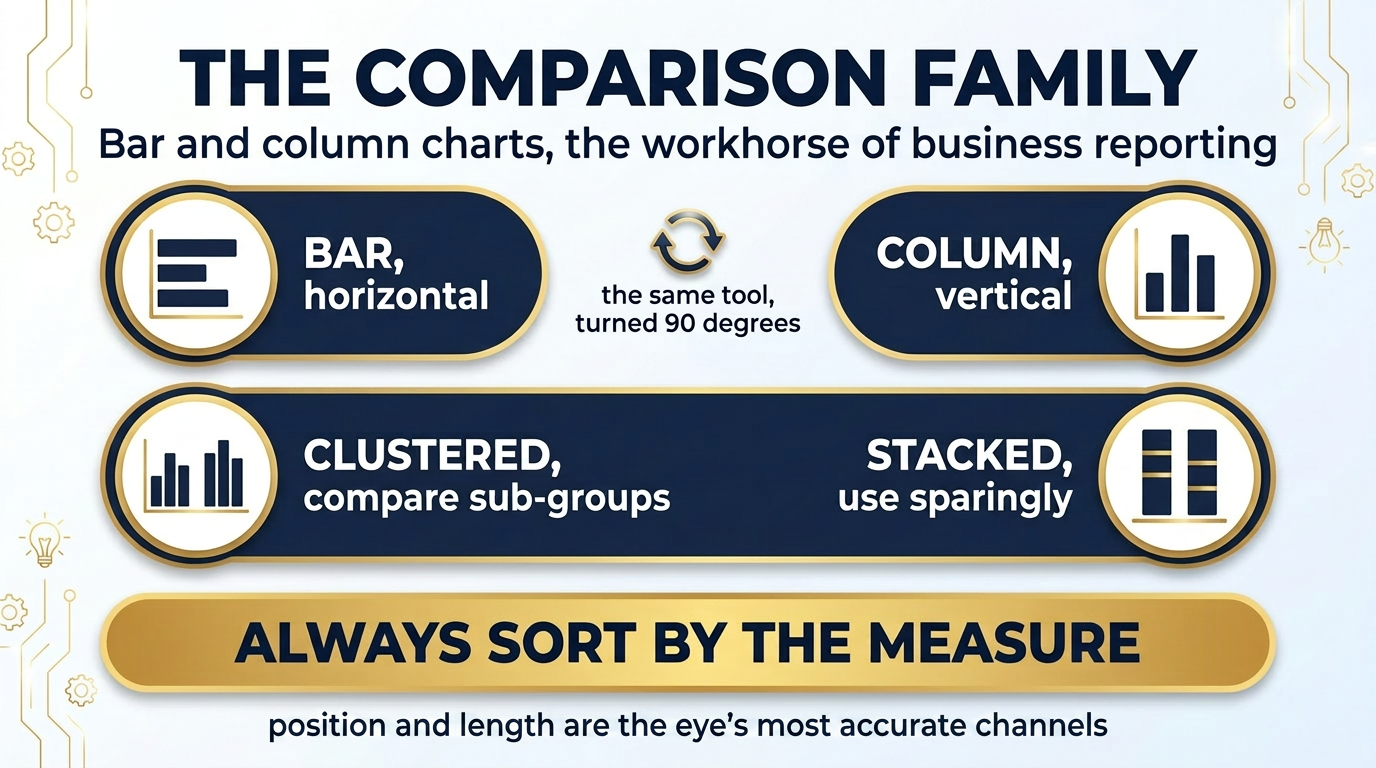
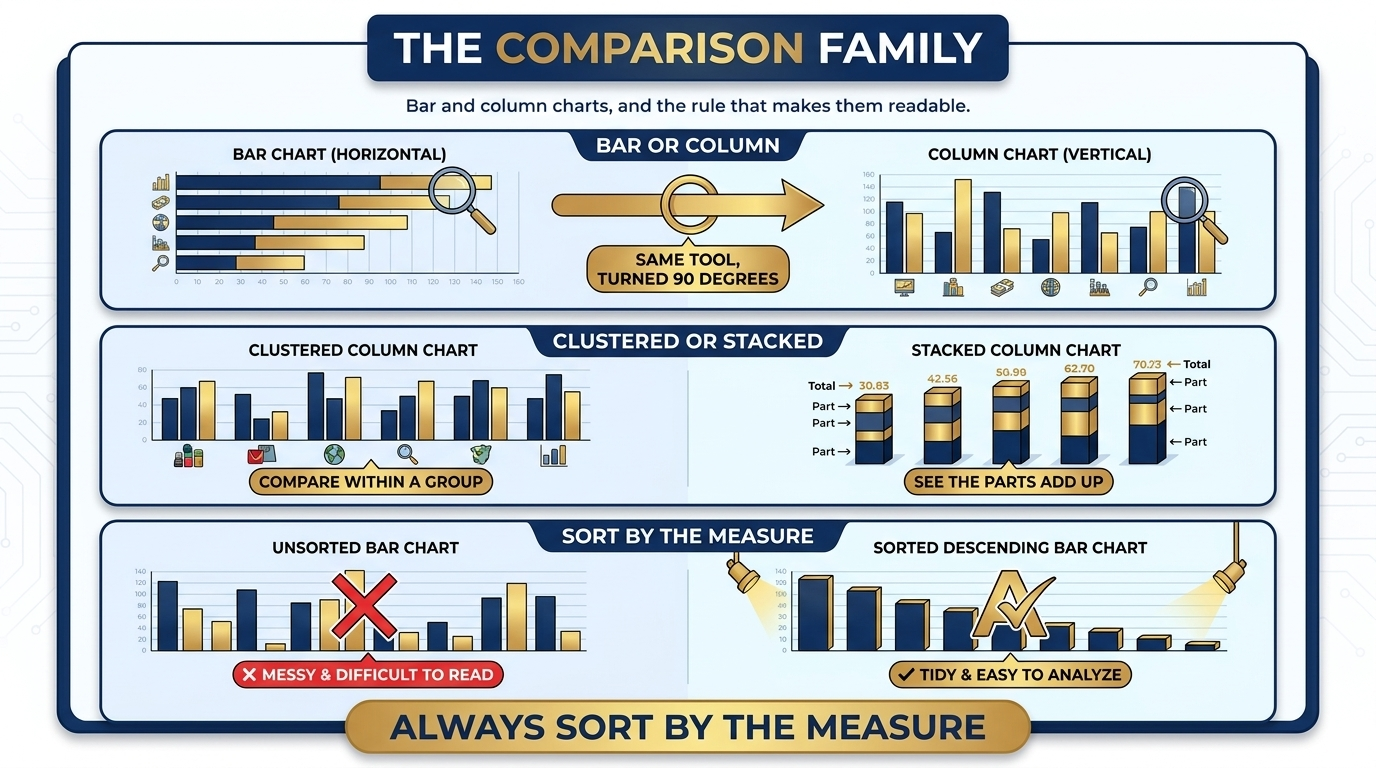
Restyle Chapter 2-3 inner figures as ai4educators-style master infographics
Rebuild the inner figures of Chapters 2 and 3 in the dense, richly
illustrated master-infographic style: each figure now depicts its
concept with drawn charts, annotations, and reaction faces rather than
labelling it in sparse shapes.

- Ch2: comparison family (row diagram), pie chart breaks (3-panel
  good/bad/fix), dashboard rebuild (before/after).
- Ch3: same data two reactions (Y-split), custom-visual checklist,
  board-ready Friday (timeline).
- Each chapter's four figures use four distinct compositions.
- Figure HTML-comment prompt blocks and alt text updated to match.
- Both chapters build clean with no MyST warnings.

diff --git a/chapters/ch03-formatting-conditional-custom-visuals.md b/chapters/ch03-formatting-conditional-custom-visuals.md
@@ -95,16 +95,17 @@ Microsoft Learn calls this *report formatting*. In practice, it is the differenc
 NANO BANANA PRO — CHAPTER 3 FIGURE 2 (concept infographic)
 File: images/ch03/fig-3-2-two-reactions.png
 Title: Same Data, Two Reactions
-Concept: Formatting is a second argument — the same report, default vs branded, draws two different audience reactions.
-Archetype: Before/after — two panels, central "FORMATTING" arrow.
-Reference: this figure is itself a locked style anchor in images/_style-reference/.
-Labels: panel headers "DEFAULT" / "BRANDED"; callouts "A 3-SECOND GLANCE" / "THEY LEAN IN"; footer "THE DATA IS IDENTICAL".
+Concept: Formatting is a second argument — the same data, formatted two ways, draws two different audience reactions.
+Archetype: Rich Y-split — one data source diverging to two outcomes (default report / branded report) with two reaction faces; ai4educators master-infographic style, navy/gold.
+Reference (composition): ../../.ref-ai4ed/ai4ed-ch01-fig-tuesdays.png
+Reference (palette): images/ch03/fig-3-1-ch3-at-a-glance.png
+Labels: source THE SAME DATA; branches DEFAULT → A 3-SECOND GLANCE / BRANDED → THEY LEAN IN; banner "THE DATA IS IDENTICAL, FORMATTING DECIDES THE REACTION".
 Palette: navy #1B2A47, gold #C9A23A, white / pale-blue background.
 -->
 
 :::{figure} ../images/ch03/fig-3-2-two-reactions.png
 :label: fig-3-2
-:alt: A before-and-after infographic titled "Same Data, Two Reactions." A default-formatted dashboard draws "a 3-second glance"; the same dashboard, branded in navy and gold, makes the audience "lean in." A footer reads "the data is identical."
+:alt: A Y-split infographic titled "Same Data, Two Reactions." One dataset diverges along two gold arrows — a plain "default" report draws "a 3-second glance," while the same data as a polished "branded" report makes the audience "lean in." A banner reads "the data is identical."
 :width: 100%
 :align: center
 
@@ -313,15 +314,16 @@ NANO BANANA PRO — CHAPTER 3 FIGURE 3 (concept infographic)
 File: images/ch03/fig-3-3-custom-visual-checklist.png
 Title: Before You Install a Custom Visual
 Concept: The safety checklist to run before installing an AppSource custom visual into a report.
-Archetype: Checklist — four stacked check rows.
-Reference: images/_style-reference/fig-1-3-visual-encoding.png
-Labels: checks "MICROSOFT CERTIFIED BADGE" / "REAL PUBLISHER, WORKING WEBSITE" / "NO UNEXPECTED INTERNET CALLS" / "YOUR TENANT ALLOWS IT"; footer "UNCERTIFIED IS NOT ALWAYS UNSAFE, CERTIFIED IS THE FLOOR".
+Archetype: Rich checklist — four stacked check rows, each with a check badge and a small illustration; ai4educators master-infographic style, navy/gold.
+Reference (composition): ../../.ref-ai4ed/ai4ed-ch01-fig-struggle.png
+Reference (palette): images/ch03/fig-3-1-ch3-at-a-glance.png
+Labels: checks MICROSOFT CERTIFIED BADGE / REAL PUBLISHER, WORKING WEBSITE / NO UNEXPECTED INTERNET CALLS / YOUR TENANT ALLOWS IT; banner "CERTIFIED IS THE FLOOR".
 Palette: navy #1B2A47, gold #C9A23A, white / pale-blue background.
 -->
 
 :::{figure} ../images/ch03/fig-3-3-custom-visual-checklist.png
 :label: fig-3-3
-:alt: A four-item checklist infographic titled "Before You Install a Custom Visual": confirm the Microsoft Certified badge, a real publisher with a working website, no unexpected internet calls, and that your tenant allows the visual. A footer reads "uncertified is not always unsafe, certified is the floor."
+:alt: A four-row checklist infographic titled "Before You Install a Custom Visual": confirm the Microsoft Certified badge, a real publisher with a working website, no unexpected internet calls, and that your tenant allows the visual — each row with a small illustration. A banner reads "certified is the floor."
 :width: 100%
 :align: center
 
@@ -435,9 +437,10 @@ NANO BANANA PRO — CHAPTER 3 FIGURE 4 (concept infographic)
 File: images/ch03/fig-3-4-formatting-timeline.png
 Title: Camila's Board-Ready Friday
 Concept: The case study as a timeline — six formatting moves that take the report from functional to board-ready in one evening.
-Archetype: Process flow — six time-stamped steps left to right.
-Reference: images/_style-reference/fig-3-2-two-reactions.png
-Labels: steps 5:15 APPLY A THEME, 6:30 HEADLINE KPI CARD, 7:00 CONDITIONAL-FORMAT THE BARS, 7:45 SMALL MULTIPLES, 8:30 ACCESSIBILITY PASS, 9:15 SHIP IT; footer "FUNCTIONAL TO CONVINCING".
+Archetype: Rich timeline — a horizontal time track with six time-stamped milestone nodes, each illustrated; ai4educators master-infographic style, navy/gold.
+Reference (composition): ../../.ref-ai4ed/ai4ed-ch02-opener.png
+Reference (palette): images/ch03/fig-3-1-ch3-at-a-glance.png
+Labels: nodes 5:15 APPLY A THEME, 6:30 HEADLINE KPI CARD, 7:00 CONDITIONAL-FORMAT THE BARS, 7:45 SMALL MULTIPLES, 8:30 ACCESSIBILITY PASS, 9:15 SHIP IT; banner "FUNCTIONAL TO CONVINCING".
 Palette: navy #1B2A47, gold #C9A23A, white / pale-blue background.
 -->
 

diff --git a/chapters/ch02-core-visual-toolkit.md b/chapters/ch02-core-visual-toolkit.md
@@ -80,9 +80,10 @@ NANO BANANA PRO — CHAPTER 2 FIGURE 2 (concept infographic)
 File: images/ch02/fig-2-2-comparison-family.png
 Title: The Comparison Family
 Concept: Bar and column charts — one tool turned 90 degrees, clustered vs stacked, and the rule to always sort by the measure.
-Archetype: Row diagram — three stacked panels.
-Reference: images/_style-reference/fig-1-3-visual-encoding.png
-Labels: "BAR, horizontal" / "COLUMN, vertical" / "CLUSTERED" / "STACKED"; banner "ALWAYS SORT BY THE MEASURE".
+Archetype: Rich row diagram — three stacked panels, each demonstrating one idea with drawn charts; ai4educators master-infographic style, navy/gold.
+Reference (composition): ../../.ref-ai4ed/ai4ed-ch01-fig-bloom.png
+Reference (palette): images/ch02/fig-2-1-ch2-at-a-glance.png
+Labels: rows BAR OR COLUMN, CLUSTERED OR STACKED, SORT BY THE MEASURE; banner "ALWAYS SORT BY THE MEASURE".
 Palette: navy #1B2A47, gold #C9A23A, white / pale-blue background.
 -->
 
@@ -254,9 +255,10 @@ NANO BANANA PRO — CHAPTER 2 FIGURE 3 (concept infographic)
 File: images/ch02/fig-2-3-pie-chart-breaks.png
 Title: When the Pie Chart Breaks
 Concept: A pie chart works with two or three clear slices and fails past that; a sorted bar answers the same question.
-Archetype: Three-panel comparison — good / bad / fix.
-Reference: images/_style-reference/fig-3-2-two-reactions.png
-Labels: panels "3 SLICES" / "11 SLICES" / "SORTED BAR"; pills "READABLE" / "UNREADABLE" / "USE THIS INSTEAD"; footer "PAST THREE SLICES, REACH FOR A SORTED BAR".
+Archetype: Rich three-panel comparison — good / bad / fix, each panel a drawn chart with a reaction face and a verdict pill; ai4educators master-infographic style, navy/gold.
+Reference (composition): ../../.ref-ai4ed/ai4ed-ch02-opener.png
+Reference (palette): images/ch02/fig-2-1-ch2-at-a-glance.png
+Labels: panels THREE SLICES / ELEVEN SLICES / SORTED BAR; pills READABLE / UNREADABLE / USE THIS INSTEAD; banner "PAST THREE SLICES, REACH FOR A SORTED BAR".
 Palette: navy #1B2A47, gold #C9A23A, white / pale-blue background.
 -->
 
@@ -431,9 +433,10 @@ NANO BANANA PRO — CHAPTER 2 FIGURE 4 (concept infographic)
 File: images/ch02/fig-2-4-dashboard-rebuild.png
 Title: The Dashboard Rebuild
 Concept: Rebuilding a chaotic inherited dashboard by swapping each visual for the one that answers its question.
-Archetype: Before/after — two panels, central "ONE DEFENSIBLE SWAP AT A TIME" arrow.
-Reference: images/_style-reference/fig-1-3-visual-encoding.png
-Labels: panel headers "INHERITED" / "REBUILT"; callouts "8 VISUALS, GUESSWORK" / "3 FAMILIES, DEFENSIBLE"; footer "THE TOOLKIT IS THE SAME, THE QUESTION DISCIPLINE CHANGED".
+Archetype: Rich before/after — two illustrated dashboard panels with annotations and reaction faces, central "ONE DEFENSIBLE SWAP AT A TIME" arrow; ai4educators master-infographic style, navy/gold.
+Reference (composition): ../../.ref-ai4ed/ai4ed-ch01-fig-tuesdays.png
+Reference (palette): images/ch02/fig-2-1-ch2-at-a-glance.png
+Labels: panel headers INHERITED / REBUILT; annotations EIGHT VISUALS, GUESSWORK / THREE FAMILIES, DEFENSIBLE; arrow ONE DEFENSIBLE SWAP AT A TIME; banner "THE TOOLKIT IS THE SAME, THE DISCIPLINE CHANGED".
 Palette: navy #1B2A47, gold #C9A23A, white / pale-blue background.
 -->
 
